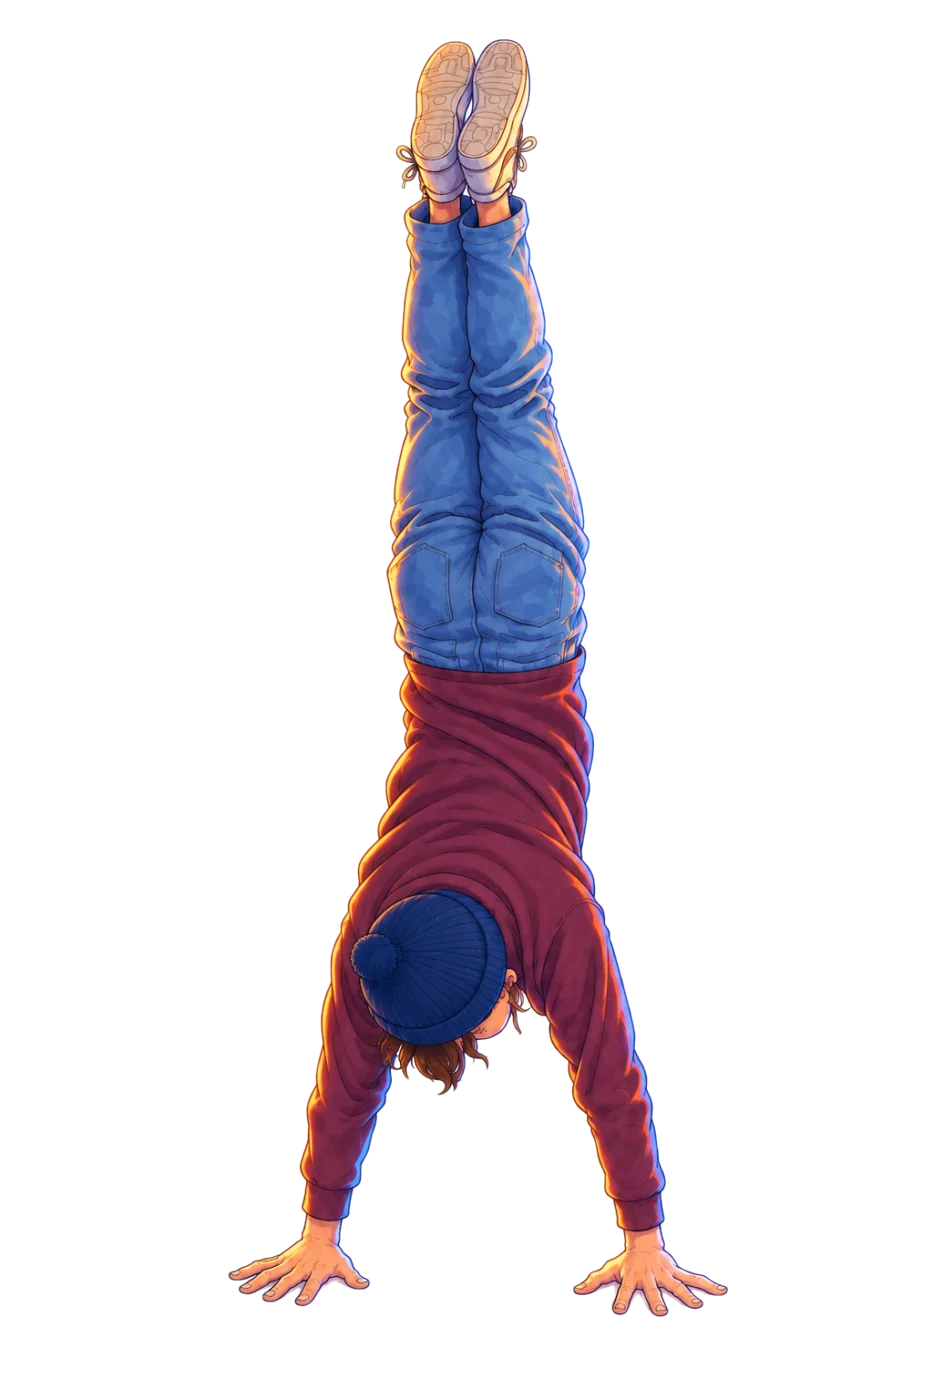
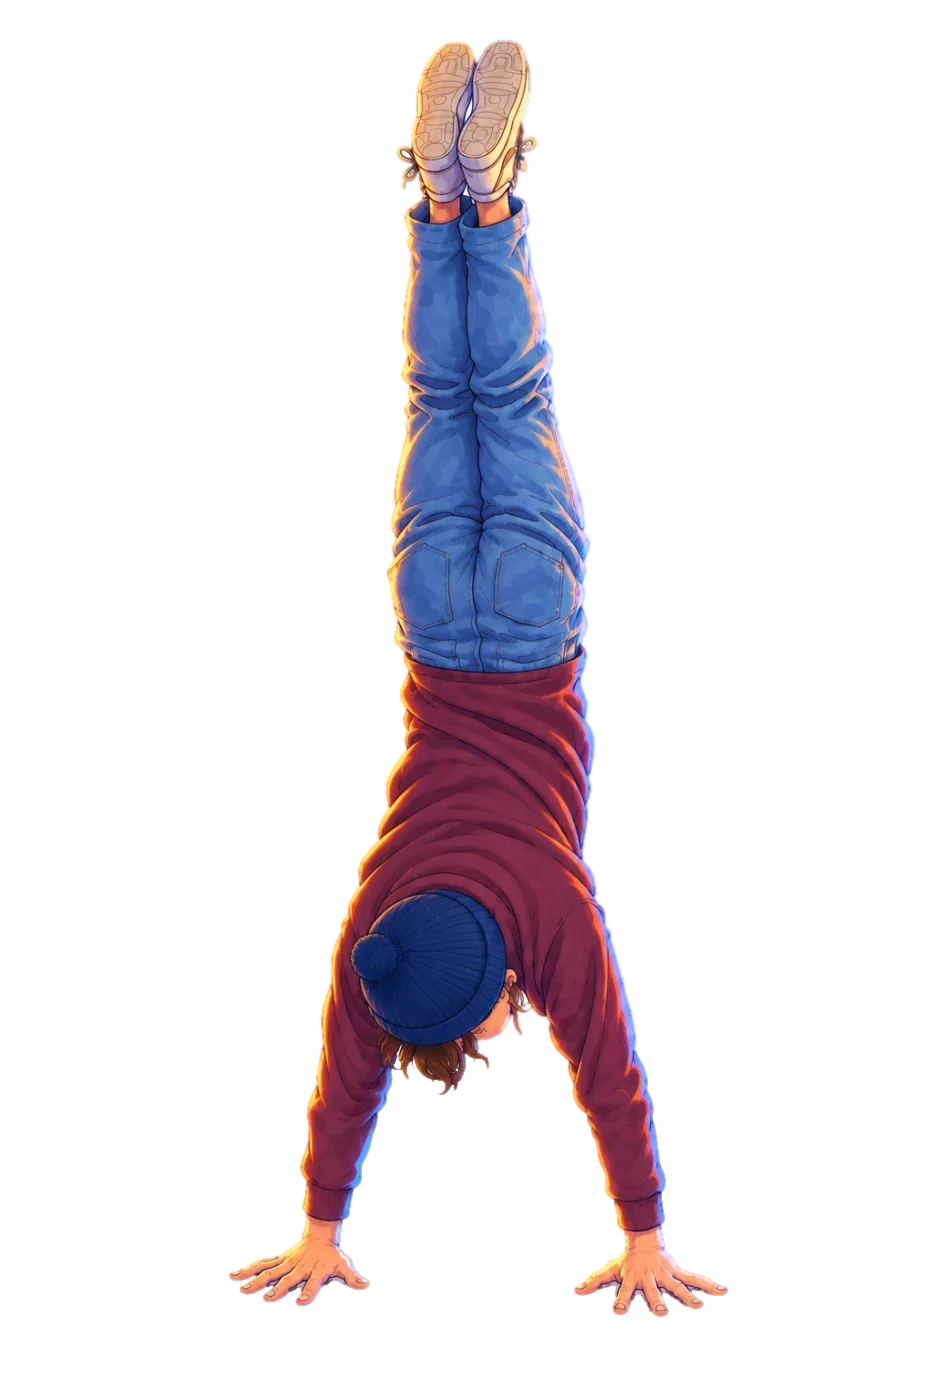
Kimi pack: clean hand shadows and edge halo from handstand cut-outs; prompt notes
Remove pale ground shadow under the hands and the 1px white fringe from
both transparent handstand cut-outs. PROMPTS.md documents the refine step
and keeps the two prompts that the Codex usage limit blocked.

diff --git a/redesign/assets/kimi/index.html b/redesign/assets/kimi/index.html
@@ -42,7 +42,7 @@
 <h2 id="comet">Comets & light</h2><p class="blurb">Light sprites on pure black. Use with mix-blend-mode: screen (no alpha needed). Shown here screened over navy.</p><div class="grid"><figure class="screen"><a href="comet/comet-split.webp"><img loading="lazy" src="comet/comet-split.webp" alt="Comet splitting (landscape)"></a><figcaption><b>Comet splitting (landscape)</b><span>comet/comet-split.webp · 1536×1024, 97 KB</span><i>Best pick for the hero split moment.</i></figcaption></figure><figure class="screen"><a href="comet/comet-split-b.webp"><img loading="lazy" src="comet/comet-split-b.webp" alt="Comet split, steep"></a><figcaption><b>Comet split, steep</b><span>comet/comet-split-b.webp · 1254×1254, 90 KB</span><i>Narrow V with a third fragment.</i></figcaption></figure><figure class="screen"><a href="comet/comet-streak-long.webp"><img loading="lazy" src="comet/comet-streak-long.webp" alt="Single long streak"></a><figcaption><b>Single long streak</b><span>comet/comet-streak-long.webp · 1536×1024, 23 KB</span><i>Rotate or flip in CSS for other angles.</i></figcaption></figure><figure class="screen"><a href="comet/comet-streak-steep.webp"><img loading="lazy" src="comet/comet-streak-steep.webp" alt="Three steep streaks"></a><figcaption><b>Three steep streaks</b><span>comet/comet-streak-steep.webp · 1254×1254, 53 KB</span><i>Gold, azure, rose. Crop or mask for singles.</i></figcaption></figure><figure class="screen"><a href="comet/flare-burst.webp"><img loading="lazy" src="comet/flare-burst.webp" alt="Lens flare: star + anamorphic"></a><figcaption><b>Lens flare: star + anamorphic</b><span>comet/flare-burst.webp · 1254×1254, 14 KB</span><i>Azure streak, hex ghosts.</i></figcaption></figure><figure class="screen"><a href="comet/flare-burst-b.webp"><img loading="lazy" src="comet/flare-burst-b.webp" alt="Lens flare: sun + ghost chain"></a><figcaption><b>Lens flare: sun + ghost chain</b><span>comet/flare-burst-b.webp · 1254×1254, 29 KB</span><i>Magic-hour sun flare.</i></figcaption></figure><figure class="screen"><a href="comet/sparkle-burst.webp"><img loading="lazy" src="comet/sparkle-burst.webp" alt="Sparkle burst"></a><figcaption><b>Sparkle burst</b><span>comet/sparkle-burst.webp · 1254×1254, 127 KB</span><i>Comet fragment burst; scroll or easter-egg trigger.</i></figcaption></figure><figure class="screen"><a href="comet/glitter.webp"><img loading="lazy" src="comet/glitter.webp" alt="Glitter drift band"></a><figcaption><b>Glitter drift band</b><span>comet/glitter.webp · 1536×1024, 172 KB</span><i>Tile or parallax over skies.</i></figcaption></figure></div>
 <h2 id="clouds">Clouds</h2><p class="blurb">Cumulus for parallax and card frames (RGBA, keyed from a green screen, despilled).</p><div class="grid"><figure class="alpha"><a href="clouds/cumulus-bank.webp"><img loading="lazy" src="clouds/cumulus-bank.webp" alt="Cumulus bank"></a><figcaption><b>Cumulus bank</b><span>clouds/cumulus-bank.webp · 1256×590, 97 KB</span><i>Gold-lit, wide.</i></figcaption></figure><figure class="alpha"><a href="clouds/cumulus-tower-b.webp"><img loading="lazy" src="clouds/cumulus-tower-b.webp" alt="Tower (night)"></a><figcaption><b>Tower (night)</b><span>clouds/cumulus-tower-b.webp · 1004×1372, 123 KB</span><i>Best tower: smooth edges.</i></figcaption></figure><figure class="alpha"><a href="clouds/cumulus-tower.webp"><img loading="lazy" src="clouds/cumulus-tower.webp" alt="Tower (twilight)"></a><figcaption><b>Tower (twilight)</b><span>clouds/cumulus-tower.webp · 990×1403, 203 KB</span><i>Has some jagged edges on the left; use small or blurred.</i></figcaption></figure><figure class="alpha"><a href="clouds/cumulus-puffs.webp"><img loading="lazy" src="clouds/cumulus-puffs.webp" alt="Five puffs (sheet)"></a><figcaption><b>Five puffs (sheet)</b><span>clouds/cumulus-puffs.webp · 1484×327, 70 KB</span><i>Also split into cumulus-puffs-1..5.webp.</i></figcaption></figure><figure class="alpha"><a href="clouds/cumulus-puffs-1.webp"><img loading="lazy" src="clouds/cumulus-puffs-1.webp" alt="Puff 1"></a><figcaption><b>Puff 1</b><span>clouds/cumulus-puffs-1.webp · 215×147, 8 KB</span></figcaption></figure><figure class="alpha"><a href="clouds/cumulus-puffs-2.webp"><img loading="lazy" src="clouds/cumulus-puffs-2.webp" alt="Puff 2"></a><figcaption><b>Puff 2</b><span>clouds/cumulus-puffs-2.webp · 347×324, 22 KB</span></figcaption></figure><figure class="alpha"><a href="clouds/cumulus-puffs-3.webp"><img loading="lazy" src="clouds/cumulus-puffs-3.webp" alt="Puff 3"></a><figcaption><b>Puff 3</b><span>clouds/cumulus-puffs-3.webp · 344×236, 17 KB</span></figcaption></figure><figure class="alpha"><a href="clouds/cumulus-puffs-4.webp"><img loading="lazy" src="clouds/cumulus-puffs-4.webp" alt="Puff 4"></a><figcaption><b>Puff 4</b><span>clouds/cumulus-puffs-4.webp · 242×165, 11 KB</span></figcaption></figure><figure class="alpha"><a href="clouds/cumulus-puffs-5.webp"><img loading="lazy" src="clouds/cumulus-puffs-5.webp" alt="Puff 5"></a><figcaption><b>Puff 5</b><span>clouds/cumulus-puffs-5.webp · 252×195, 11 KB</span></figcaption></figure><figure class="alpha"><a href="clouds/cloud-frame-landscape.webp"><img loading="lazy" src="clouds/cloud-frame-landscape.webp" alt="Cloud card frame: landscape"></a><figcaption><b>Cloud card frame: landscape</b><span>clouds/cloud-frame-landscape.webp · 1520×957, 93 KB</span><i>Flat #eef2fb centre for text.</i></figcaption></figure><figure class="alpha"><a href="clouds/cloud-frame-square.webp"><img loading="lazy" src="clouds/cloud-frame-square.webp" alt="Cloud card frame: square"></a><figcaption><b>Cloud card frame: square</b><span>clouds/cloud-frame-square.webp · 1024×1024, 87 KB</span><i>Used by the 9-slice demo.</i></figcaption></figure><figure class="alpha"><a href="clouds/cloud-frame-tall.webp"><img loading="lazy" src="clouds/cloud-frame-tall.webp" alt="Cloud card frame: tall"></a><figcaption><b>Cloud card frame: tall</b><span>clouds/cloud-frame-tall.webp · 1024×1536, 103 KB</span></figcaption></figure></div>
 <h2 id="hero">Hero: the handstand</h2><p class="blurb">Daniel's handstand (from handstand.PNG + orbit yaw-000). Each scene has a -768 version.</p><div class="grid"><figure class="fit"><a href="hero/hero-comet-twilight.webp"><img loading="lazy" src="hero/hero-comet-twilight.webp" alt="Comet twilight (portrait)"></a><figcaption><b>Comet twilight (portrait)</b><span>hero/hero-comet-twilight.webp · 1024×1536, 291 KB</span><i>Best pick. Rim-lit on a lake-town hilltop under the splitting comet.</i></figcaption></figure><figure class="fit"><a href="hero/hero-comet-landscape.webp"><img loading="lazy" src="hero/hero-comet-landscape.webp" alt="Comet twilight (landscape)"></a><figcaption><b>Comet twilight (landscape)</b><span>hero/hero-comet-landscape.webp · 1536×1024, 287 KB</span><i>He is on the right third; left half is open.</i></figcaption></figure><figure class="fit"><a href="hero/hero-falling-stars.webp"><img loading="lazy" src="hero/hero-falling-stars.webp" alt="Falling shooting stars (portrait)"></a><figcaption><b>Falling shooting stars (portrait)</b><span>hero/hero-falling-stars.webp · 1024×1536, 356 KB</span><i>Meteors rain toward him, wet-stone reflections.</i></figcaption></figure></div>
-<p class="blurb">Cut-outs (RGBA) for compositing over any sky.</p><div class="grid"><figure class="alpha"><a href="hero/handstand-cutout.webp"><img loading="lazy" src="hero/handstand-cutout.webp" alt="Cut-out: cel-shaded"></a><figcaption><b>Cut-out: cel-shaded</b><span>hero/handstand-cutout.webp · 933×1400, 73 KB</span><i>Best pick. Warm rim right, azure shadow left.</i></figcaption></figure><figure class="alpha"><a href="hero/handstand-cutout-rim.webp"><img loading="lazy" src="hero/handstand-cutout-rim.webp" alt="Cut-out: night rim-lit"></a><figcaption><b>Cut-out: night rim-lit</b><span>hero/handstand-cutout-rim.webp · 933×1400, 81 KB</span><i>Stronger gold and azure rims for night skies.</i></figcaption></figure></div>
+<p class="blurb">Cut-outs (RGBA) for compositing over any sky.</p><div class="grid"><figure class="alpha"><a href="hero/handstand-cutout.webp"><img loading="lazy" src="hero/handstand-cutout.webp" alt="Cut-out: cel-shaded"></a><figcaption><b>Cut-out: cel-shaded</b><span>hero/handstand-cutout.webp · 933×1400, 71 KB</span><i>Best pick. Warm rim right, azure shadow left.</i></figcaption></figure><figure class="alpha"><a href="hero/handstand-cutout-rim.webp"><img loading="lazy" src="hero/handstand-cutout-rim.webp" alt="Cut-out: night rim-lit"></a><figcaption><b>Cut-out: night rim-lit</b><span>hero/handstand-cutout-rim.webp · 933×1400, 80 KB</span><i>Stronger gold and azure rims for night skies.</i></figcaption></figure></div>
 <h2 id="motifs">Motifs</h2><p class="blurb">Red cord dividers (RGBA) and light sprites on black (screen).</p><div class="grid"><figure class="alpha"><a href="motifs/cord-straight.webp"><img loading="lazy" src="motifs/cord-straight.webp" alt="Braided cord with loop"></a><figcaption><b>Braided cord with loop</b><span>motifs/cord-straight.webp · 1536×271, 92 KB</span><i>Divider.</i></figcaption></figure><figure class="alpha"><a href="motifs/cord-tied.webp"><img loading="lazy" src="motifs/cord-tied.webp" alt="Braided cord with bow + tassels"></a><figcaption><b>Braided cord with bow + tassels</b><span>motifs/cord-tied.webp · 1536×605, 148 KB</span><i>Section ender.</i></figcaption></figure></div>
 <p class="blurb">Song easter egg and magic-hour light leaks (screen blend; leaks have -768 versions).</p><div class="grid"><figure class="screen"><a href="motifs/note-star.webp"><img loading="lazy" src="motifs/note-star.webp" alt="Star note"></a><figcaption><b>Star note</b><span>motifs/note-star.webp · 1254×1254, 20 KB</span><i>Best pick for the song easter egg.</i></figcaption></figure><figure class="screen"><a href="motifs/note-star-b.webp"><img loading="lazy" src="motifs/note-star-b.webp" alt="Beamed star notes + comet swirl"></a><figcaption><b>Beamed star notes + comet swirl</b><span>motifs/note-star-b.webp · 1254×1254, 80 KB</span></figcaption></figure><figure class="screen"><a href="motifs/lightleak-gold.webp"><img loading="lazy" src="motifs/lightleak-gold.webp" alt="Light leak: gold, top-right"></a><figcaption><b>Light leak: gold, top-right</b><span>motifs/lightleak-gold.webp · 1536×1024, 13 KB</span></figcaption></figure><figure class="screen"><a href="motifs/lightleak-rose.webp"><img loading="lazy" src="motifs/lightleak-rose.webp" alt="Light leak: rose, bottom-left"></a><figcaption><b>Light leak: rose, bottom-left</b><span>motifs/lightleak-rose.webp · 1536×1024, 15 KB</span></figcaption></figure><figure class="screen"><a href="motifs/lightleak-azure.webp"><img loading="lazy" src="motifs/lightleak-azure.webp" alt="Light leak: azure band, top"></a><figcaption><b>Light leak: azure band, top</b><span>motifs/lightleak-azure.webp · 1536×1024, 14 KB</span></figcaption></figure></div>
 </main>

diff --git a/redesign/assets/kimi/PROMPTS.md b/redesign/assets/kimi/PROMPTS.md
@@ -20,7 +20,7 @@ cat prompts/NAME.txt | codex exec --skip-git-repo-check --sandbox workspace-writ
 - **Keyed sprites** (clouds, frames, cords): the prompt asks for a flat `#00FF00` background. The key computes alpha from green dominance, un-mixes the green, applies the same guard as despill, and crops to content.
   - Afterwards the clouds get a warm pass: lemon yellows with `G >= 0.96R` are pulled to `G = 0.93R`, so cloud tops read gold, not lime.
 - **Horizons:** the flat navy top is detected and cropped, then the top 32% fades to alpha.
-- **Cut-outs:** `cutout.py` (white flood-fill) with 1 variant, max height 1400 and pastel 0.08.
+- **Cut-outs:** `cutout.py` (white flood-fill) with 1 variant, max height 1400 and pastel 0.08. A refine pass then removes pale low-saturation ground shadow at the edge in the bottom 25% (under the hands), and replaces the 1px edge ring with inward colour so no white halo shows on navy.
 - **Check:** every delivered file is scanned for green/teal pixels, and every one scores 0.00 to 0.04% (only edge specks).
 
 ## What worked / gotchas
@@ -33,7 +33,7 @@ cat prompts/NAME.txt | codex exec --skip-git-repo-check --sandbox workspace-writ
   - Some skies still lean amber/orange at the horizon (warm gold is in-palette); grade down in CSS if needed.
 - **Hero fidelity:** two refs (the painted photo plus the clean v9 orbit frame) and an explicit clothing list kept him consistent in every run. Explicitly saying "paint the beanie NAVY BLUE, never green" was needed, because the original photo's beanie reads dark green.
 - **Cloud frames:** asking for the inside to be "EMPTY, completely FLAT, solid #eef2fb" plus "billow border even in thickness" gave 9-slice-ready frames on the first try.
-- **Codex usage limit:** hit after about 37 images. `hero-falling-stars-landscape` and `cumulus-wisps` (round 2) failed on the limit and were not delivered.
+- **Codex usage limit:** hit after about 37 images. `hero-falling-stars-landscape` and `cumulus-wisps` (round 2) failed on the limit and were not delivered. A retry after the reported reset failed too, because the reset time is local (about 09:42 UTC). Their prompts are kept below the file list for a later run.
 
 ## Files and exact prompts
 
@@ -303,7 +303,7 @@ The attached reference images show Daniel, a real person, doing a straight hands
 
 #### `hero-cutout` → hero/handstand-cutout.webp
 
-Note: Best cut-out. White bg removed with cutout.py (1 variant, max_h 1400, pastel 0.08).
+Note: Best cut-out. White bg removed with cutout.py (1 variant, max_h 1400, pastel 0.08), then refined: pale ground-shadow near the hands removed, 1px defringe.
 
 Refs: `-i handstand.png -i orbit.png`
 
@@ -315,7 +315,7 @@ The attached reference images show Daniel, a real person, doing a straight hands
 
 #### `hero-cutout-rim` → hero/handstand-cutout-rim.webp
 
-Note: Night rim-lit variant, same cutout.py settings.
+Note: Night rim-lit variant, same cutout.py + refine settings.
 
 Refs: `-i handstand.png -i orbit.png`
 
@@ -385,4 +385,22 @@ A twilight light-leak overlay: a soft blurry glow of rose pink and lavender viol
 Generate ONE image with your image generation tool and save it in the current directory as lightleak-azure.png. The image must be landscape, 1536x1024 pixels. Do not write any other files.
 
 A dusk light-leak overlay: a wide soft band of azure and pale ivory light sweeping across the top of the frame like light from a low sun through a lens, with a thin warm gold edge, a long horizontal anamorphic flare streak across the upper third, and soft lens ghosts; the lower two-thirds fade smoothly to pure black. The background must be PURE BLACK (#000000) everywhere outside the light itself, completely flat, no stars, no sky, no gradient, no noise, so the image can be used as an additive light sprite with screen blending. Only glowing light on black. Palette strictly limited to: deep navy, royal blue, azure, ivory, warm gold and amber, with small accents of rose pink, soft magenta-rose and lavender violet. Absolutely NO green and NO teal, cyan-green, mint or turquoise anywhere in the image: where a twilight sky would normally turn teal near the horizon, push that band toward clear azure blue and lavender violet instead. No text, no logos, no watermark.
+```
+
+## Not delivered (Codex usage limit): prompts for a later run
+
+#### `hero-falling-stars-landscape`
+
+```text
+Generate ONE image with your image generation tool and save it in the current directory as hero-falling-stars-landscape.png. The image must be landscape, 1536x1024 pixels. Do not write any other files.
+
+The attached reference images show Daniel, a real person, doing a straight handstand: he wears a maroon / burgundy long-sleeve sweatshirt, light-blue denim jeans, beige-white low sneakers, and a navy-blue knit beanie with a pom-pom (paint the beanie NAVY BLUE, never green); short brown hair shows under the beanie; he is seen from behind, legs together pointing straight up, arms straight and hands flat on the ground. Keep his pose, body proportions, build and clothing exactly faithful to the references — it must clearly be the same person and the same pose. Do not show a face. Paint a new wide anime film still (Makoto Shinkai style) of him doing this handstand on a flat stone terrace at night, placed in the right third of the frame, figure about 55 percent of the image height. Many glowing shooting stars with long ivory, gold and rose trails fall diagonally from upper right to lower left across a deep navy and royal-blue starry sky with a dense Milky Way; sparkling glitter drifts around his body; warm gold rim light on his legs and sneakers, soft azure light on his jeans, reflections on the wet stone. Gold-rimmed cumulus near the horizon, tiny town lights far below. Keep the left half calm and open for a headline. Style: a hand-painted Japanese anime feature-film background in the luminous manner of Makoto Shinkai — hyper-detailed painted sky, magic-hour light, soft bloom and glow, anamorphic lens flare streaks, sparkling light specks, crisp dramatic cumulus with glowing gold and rose rims, fine atmospheric gradients. Painterly, cinematic, high dynamic range, clean edges, no photographic noise. Palette strictly limited to: deep navy, royal blue, azure, ivory, warm gold and amber, with small accents of rose pink, soft magenta-rose and lavender violet. Absolutely NO green and NO teal, cyan-green, mint or turquoise anywhere in the image: where a twilight sky would normally turn teal near the horizon, push that band toward clear azure blue and lavender violet instead. No green anywhere. No text, no logos, no watermark, no other people.
+```
+
+#### `cumulus-wisps`
+
+```text
+Generate ONE image with your image generation tool and save it in the current directory as cumulus-wisps.png. The image must be landscape, 1536x1024 pixels. Do not write any other files.
+
+Four separate, isolated, long thin horizontal stratus cloud wisps and streaks of different lengths, stacked with clear empty space between each so none touch, like the long glowing cloud streaks across a magic-hour sky in an anime film: their lower edges glow warm gold and rose, their upper parts soft lavender and pale azure, soft feathered painted edges. Each fully inside the frame. The background must be a completely flat, uniform, pure chroma-key green (#00FF00) everywhere outside the subject, with no shadows, no gradient and no texture, so it can be keyed out. The subject itself must contain no green at all, and no green spill on its edges. Palette strictly limited to: deep navy, royal blue, azure, ivory, warm gold and amber, with small accents of rose pink, soft magenta-rose and lavender violet. Absolutely NO green and NO teal, cyan-green, mint or turquoise anywhere in the image: where a twilight sky would normally turn teal near the horizon, push that band toward clear azure blue and lavender violet instead. No text, no logos, no watermark.
 ```
